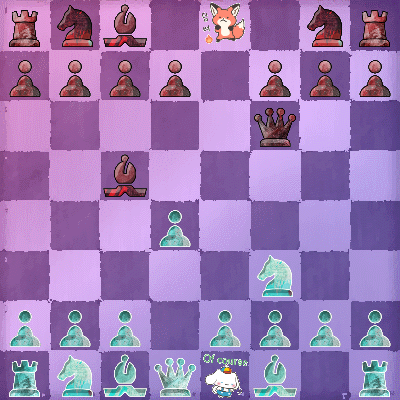
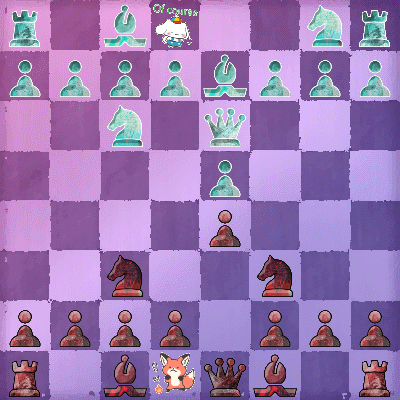
update skin

diff --git a/src/main/resources/templates/pgntogif.html b/src/main/resources/templates/pgntogif.html
@@ -3,7 +3,7 @@
 <head>
     <meta charset="utf-8">
     <meta name="viewport" content="width=device-width, initial-scale=1">
-    <title>profrog's portpolio</title>
+    <title>chessx2</title>
     <link rel="preconnect" href="https://fonts.googleapis.com">
     <link rel="preconnect" href="https://fonts.gstatic.com" crossorigin>
     <link href="https://fonts.googleapis.com/css2?family=Noto+Sans+KR:wght@900&display=swap" rel="stylesheet">
@@ -68,11 +68,11 @@
 
         <label>which is your side</label>
         <div class="form-check">
-            <input class="form-check-input" type="radio" name="sideRadios" id="white" value="white" checked>
+            <input class="form-check-input" type="radio" name="sideRadios" id="white" value="0" checked>
             <label class="form-check-label" for="white">white</label>
         </div>
         <div class="form-check">
-            <input class="form-check-input" type="radio" name="sideRadios" id="black" value="black">
+            <input class="form-check-input" type="radio" name="sideRadios" id="black" value="1">
             <label class="form-check-label" for="black">black</label>
         </div>
 

diff --git a/src/main/resources/static/js/pgntogif.js b/src/main/resources/static/js/pgntogif.js
@@ -93,15 +93,7 @@ let black_bottom_opt = 0;
   {
     pgndata = document.getElementById('pgndata').value;
     const checkedRadio = document.querySelector('input[name="sideRadios"]:checked');
-    if(checkedRadio.textContent == 'black')
-    {
-        black_bottom_opt = 1;
-    }
-
-    else
-    {
-       black_bottom_opt = 0;
-    }
+    let black_bottom_opt = checkedRadio.value;
 
     const checkedSpeed = document.querySelector('input[name="Speeds"]:checked');
     let speed0 = checkedSpeed.value;

diff --git a/src/main/resources/templates/about.html b/src/main/resources/templates/about.html
@@ -3,7 +3,7 @@
 <head>
     <meta charset="utf-8">
     <meta name="viewport" content="width=device-width, initial-scale=1">
-    <title>profrog's portpolio</title>
+    <title>chessx2</title>
     <link rel="preconnect" href="https://fonts.googleapis.com">
     <link rel="preconnect" href="https://fonts.gstatic.com" crossorigin>
     <link href="https://fonts.googleapis.com/css2?family=Noto+Sans+KR:wght@900&display=swap" rel="stylesheet">

diff --git a/src/main/resources/templates/main.html b/src/main/resources/templates/main.html
@@ -3,7 +3,7 @@
 <head>
     <meta charset="utf-8">
     <meta name="viewport" content="width=device-width, initial-scale=1">
-    <title>profrog's portpolio</title>
+    <title>chessx2</title>
     <link rel="preconnect" href="https://fonts.googleapis.com">
     <link rel="preconnect" href="https://fonts.gstatic.com" crossorigin>
     <link href="https://fonts.googleapis.com/css2?family=Noto+Sans+KR:wght@900&display=swap" rel="stylesheet">

diff --git a/src/main/java/com/profrog/chessx2/Chessx2Application.java b/src/main/java/com/profrog/chessx2/Chessx2Application.java
@@ -36,6 +36,7 @@ public class Chessx2Application {
 		String gif_name = "/gifoutput/" + String.valueOf(random.nextInt(1000000)) + ".gif";
 		String dir0 = "\\output";
 		String pgndata = data.get("pgndata");
+		int black_bottom_opt = Integer.parseInt(data.get("black_bottom_opt"));
 
 		String input_link = data.get("input_link");
 		input_link = path_dir + input_link.substring(1);
@@ -44,9 +45,12 @@ public class Chessx2Application {
 
 		ClassPathResource resource0 = new ClassPathResource("static/images/chesschess.png");
 		String output_link = Paths.get(resource0.getURI()).getParent().toString();
-		List<int[][]> alpa =  PgnParse.parserInit(pgndata,0,0);
-		String input_dir = PgnToImage.imageInit(alpa,path.toString());
+		File directory = new File(path.toString() + "/output");
+		deleteFolder(directory);
 
+		//System.out.println("*******" + black_bottom_opt);
+		List<int[][]> alpa =  PgnParse.parserInit(pgndata,black_bottom_opt,0);
+		String input_dir = PgnToImage.imageInit(alpa,path.toString());
 		System.out.println(gif_name);
 		int delay = Integer.parseInt(data.get("delay"));
 		ImageToGif.gifInit(output_link + gif_name, input_dir, delay);
@@ -98,7 +102,22 @@ public class Chessx2Application {
 		ObjectMapper mapper = new ObjectMapper();
 		return mapper.writeValueAsString(returning);
 	}
+
+	public static boolean deleteFolder(File folder) {
+		File[] files = folder.listFiles();
+		if (files != null) {  // 폴더가 비어있지 않은 경우
+			for (File file : files) {
+				if (file.isDirectory()) {
+					deleteFolder(file);  // 재귀적으로 하위 폴더 삭제
+				} else {
+					file.delete();  // 파일 삭제
+				}
+			}
+		}
+		return folder.delete();  // 최종적으로 폴더 삭제
+	}
 }
+
 
 
 
